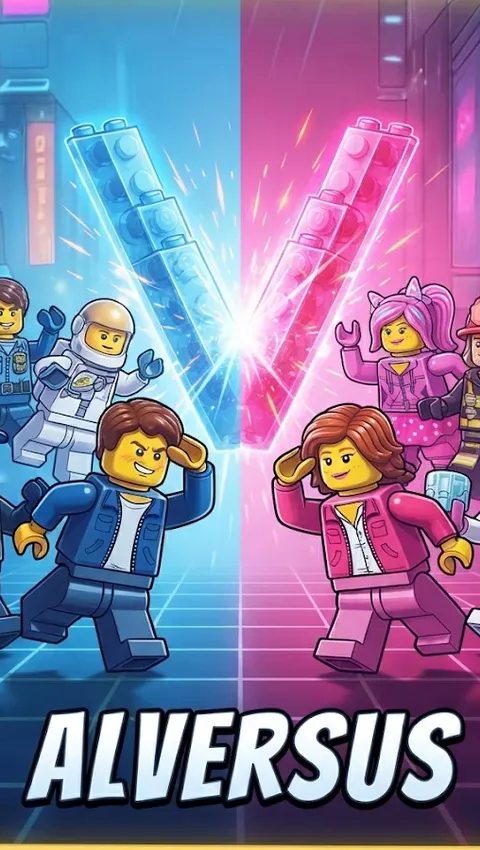
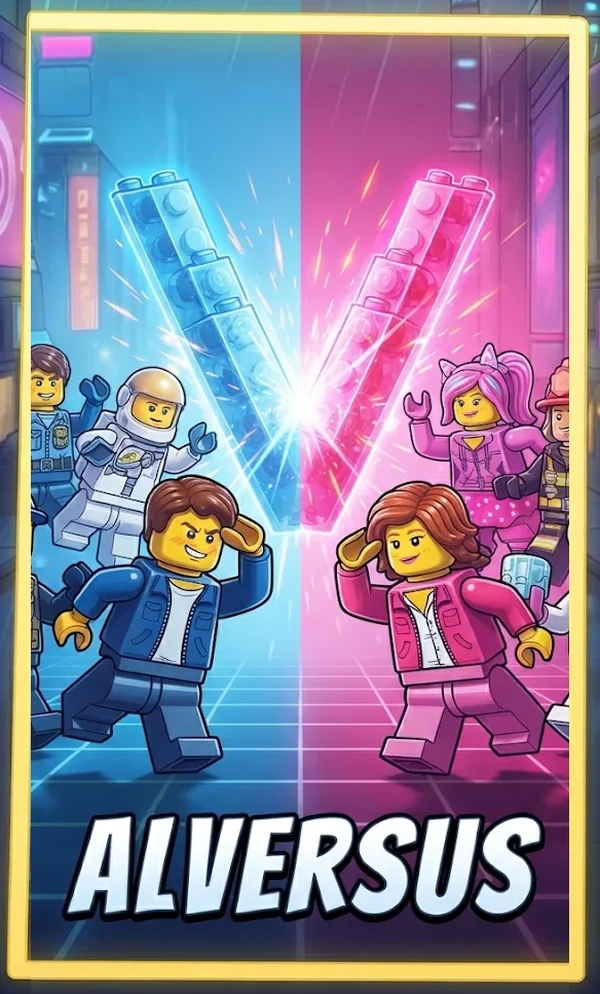
Tarjetas de tipo completas con su marco y caja de herramientas

diff --git a/src/pantallas/configurar-az.css b/src/pantallas/configurar-az.css
@@ -86,6 +86,10 @@
   box-shadow: 0 0 0 2px rgba(46, 230, 214, .6), 0 0 30px rgba(46, 230, 214, .35), 0 12px 26px rgba(4, 8, 30, .5); animation: none; }
 .D.az.cfg-pagina .tc.bloq { filter: saturate(.3) brightness(.6); }
 .D.az.cfg-pagina .tc-tipo { border-width: 1px; background: #0b1236; }
+/* Ilustración completa con su marco amarillo: la tarjeta tiene la proporción de la imagen y no se acerca al elegirla */
+.D.az.cfg-pagina .tc-tipo, .D.wide.az.cfg-pagina .tc-tipo { aspect-ratio: 600 / 994; }
+.D.az.cfg-pagina .tc-tipo img { object-fit: contain; object-position: center; }
+.D.az.cfg-pagina .tc-tipo.on img { scale: 1; }
 .D.az.cfg-pagina .tc-tipo.on { animation: czLatido 2.4s ease-in-out infinite; }
 @keyframes czLatido { 50% { box-shadow: 0 0 0 2px rgba(46, 230, 214, .75), 0 0 46px rgba(46, 230, 214, .5), 0 12px 26px rgba(4, 8, 30, .5); } }
 .D.az.cfg-pagina .tc-check { width: 42px; height: 42px; border: 0; background: none; color: transparent; }
